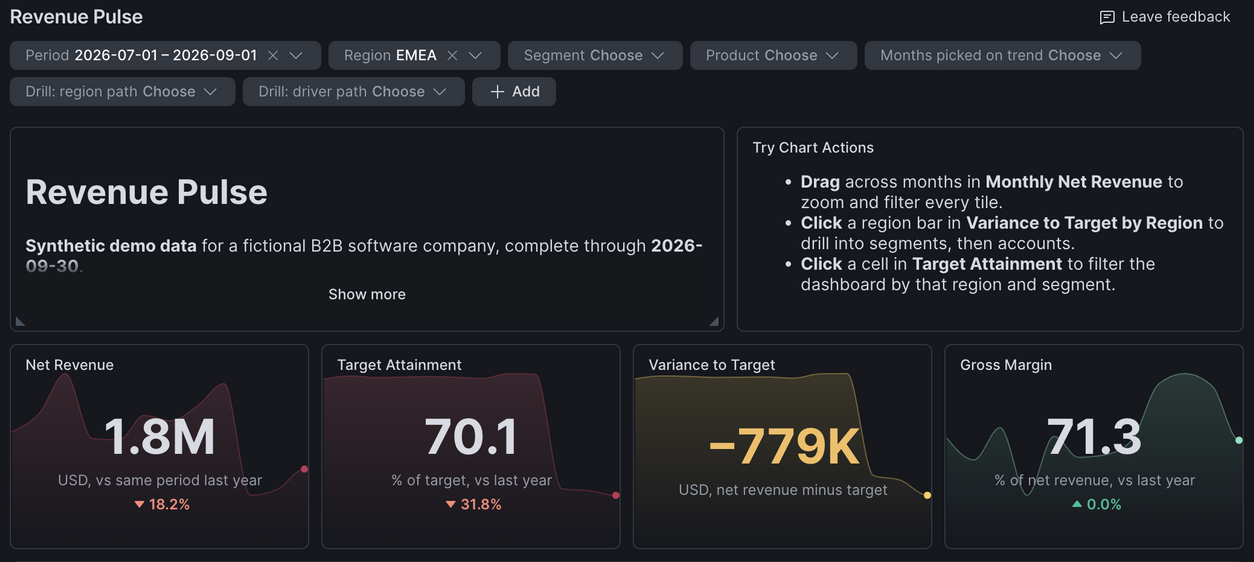
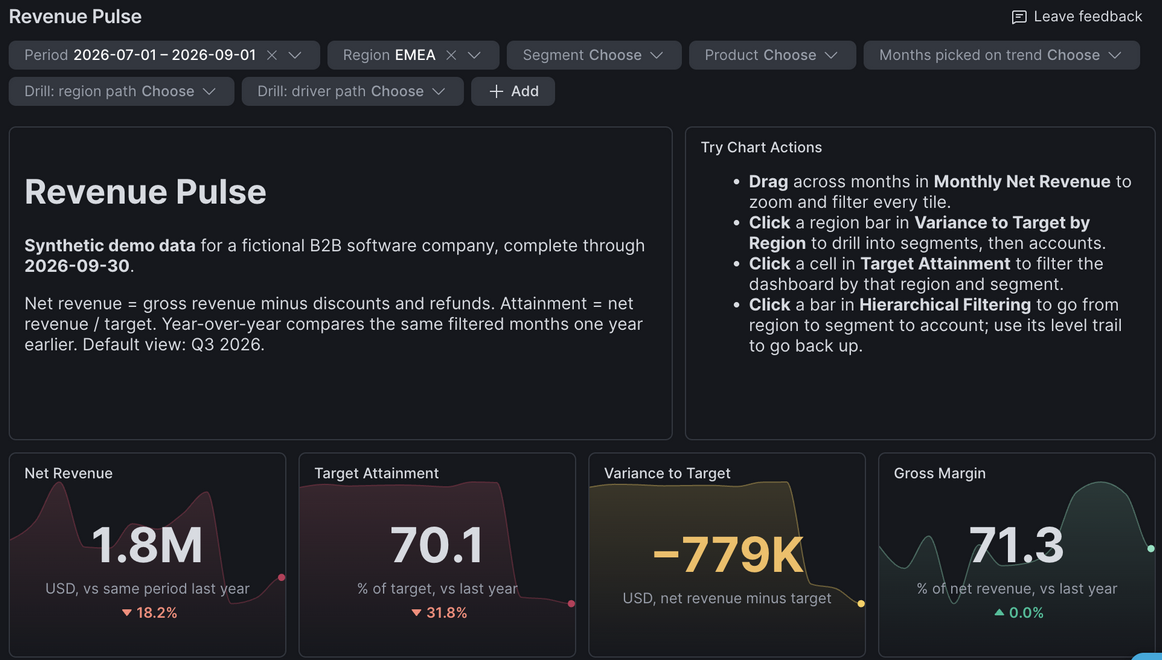
Add heatmap-click screenshot and refresh overview captures
Recaptured dashboard-complete, dashboard-overview, and filter-region-emea to include the hierarchy chart and taller intro tiles.

Generated with [Snowflake CoCo](https://docs.snowflake.com/en/user-guide/cortex-code/cortex-code)

diff --git a/quickstart/getting-started-with-snowflake-dashboards-2-0/getting-started-with-snowflake-dashboards-2-0.md b/quickstart/getting-started-with-snowflake-dashboards-2-0/getting-started-with-snowflake-dashboards-2-0.md
@@ -639,6 +639,8 @@ Expose clearable selections and validate the file.
 
 **Check:** Select EMEA Enterprise, confirm the other tiles show that slice, and then clear the selections. The full heatmap should remain available throughout.
 
+![Completed reference after selecting the EMEA Enterprise cell: Region EMEA and Segment Enterprise chips appear, and the scorecards show $1.1M net revenue, 57.9% attainment, and a variance of about −$779K](assets/heatmap-cell-filter.png)
+
 #### Drill Down a Hierarchy
 
 The region bar changes its detail level through the Region and Segment dropdowns. A [native hierarchy](https://docs.snowflake.com/en/LIMITEDACCESS/cowork-dashboards#defining-a-hierarchy) does this with clicks instead: the file defines the levels once, and a bar chart steps down them one click at a time, with a level trail for going back up. Hierarchy datasources can't read a semantic view, so this one query joins the base tables and repeats the semantic view's revenue and target formulas.
